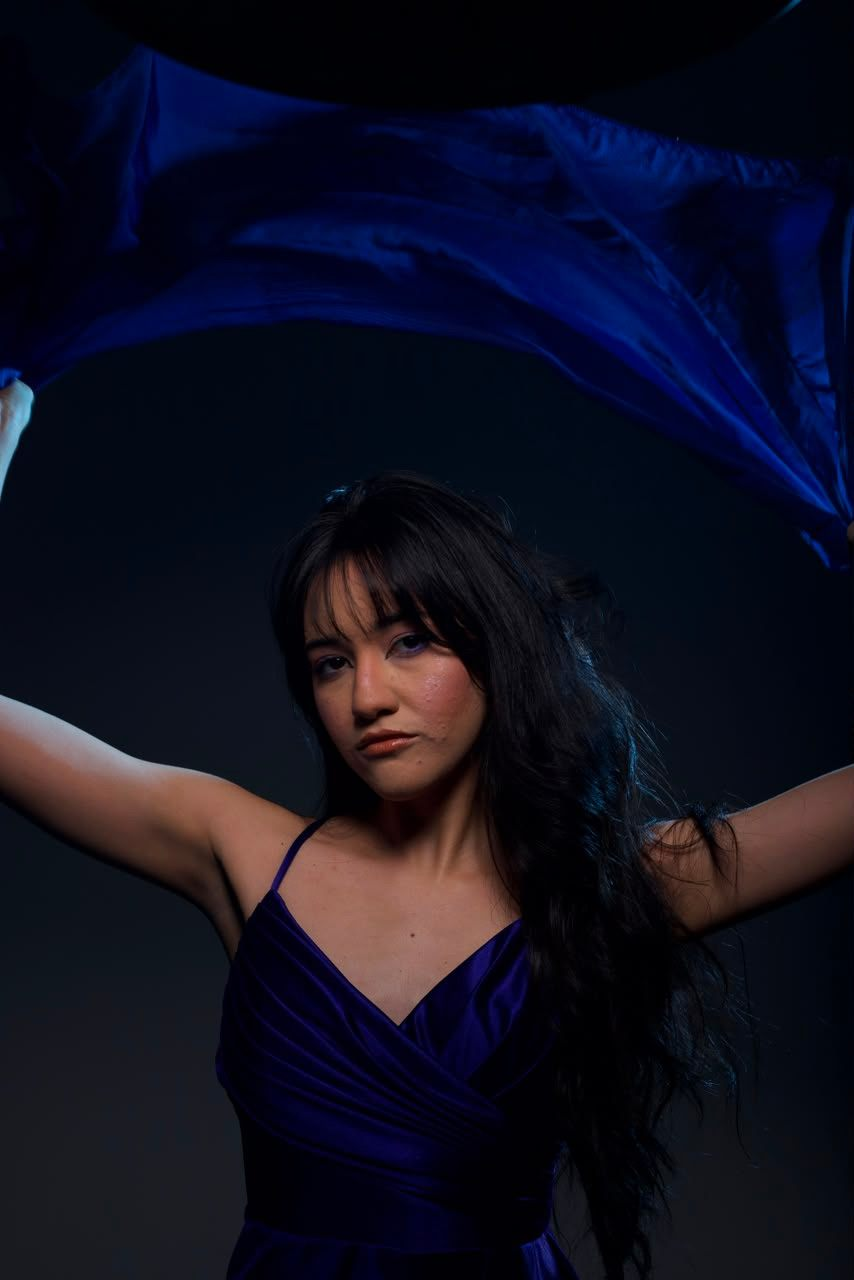
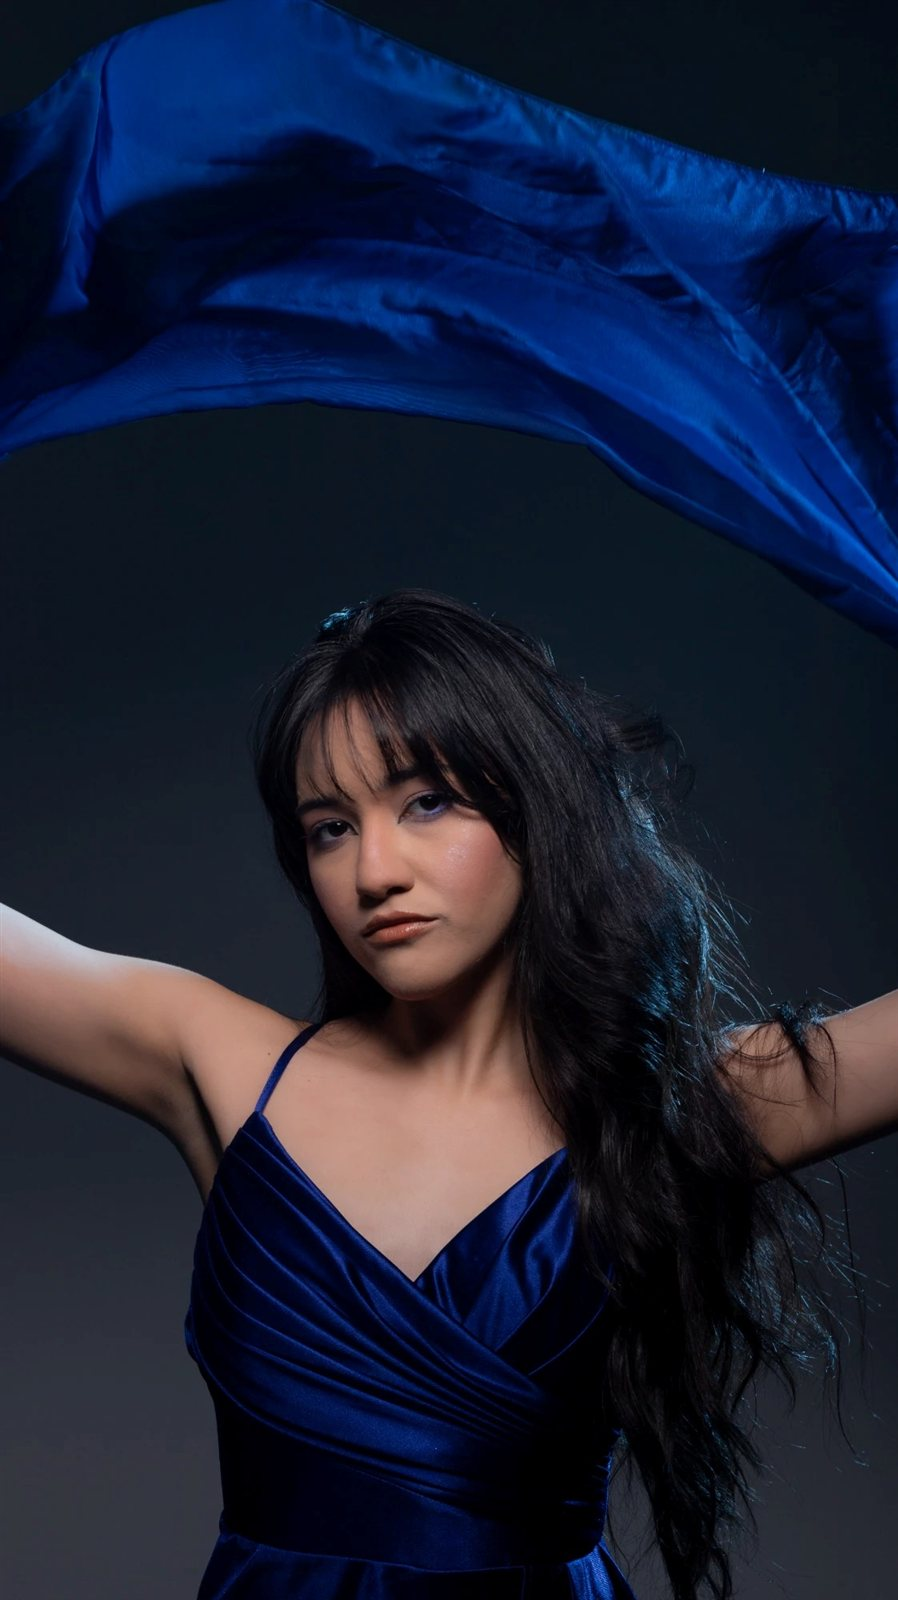
Versão completa com a carta da borboleta e fotos editadas

diff --git a/index.html b/index.html
@@ -4,7 +4,7 @@
 <meta charset="utf-8">
 <meta name="viewport" content="width=device-width, initial-scale=1, viewport-fit=cover">
 <title>Duda Sá</title>
-<meta name="description" content="Duda Sá, cantora e compositora. Novo single Superstar em 30 de novembro de 2026.">
+<meta name="description" content="Duda Sá, cantora e compositora. Novo single Superstar em 20 de novembro de 2026.">
 <link rel="preconnect" href="https://fonts.googleapis.com">
 <link rel="preconnect" href="https://fonts.gstatic.com" crossorigin>
 <link rel="stylesheet" href="https://fonts.googleapis.com/css2?family=Josefin+Sans:wght@200;300;400&family=Jost:ital,wght@0,300;0,400;0,500;1,300&family=Yellowtail&display=swap">
@@ -292,7 +292,7 @@ footer .sig { font-family: var(--body); font-style: normal; font-weight: 300; }
 
 <div class="notice">
   <div class="wrap">
-    <a href="#superstar">Superstar · novo single · 30.11</a>
+    <a href="#superstar">Superstar · novo single · 20.11</a>
     <span aria-hidden="true">✦</span>
     <span>faltam <b id="nb-d">--</b> dias</span>
   </div>
@@ -347,7 +347,7 @@ footer .sig { font-family: var(--body); font-style: normal; font-weight: 300; }
       <div class="single-text">
         <p class="eyebrow">Novo single</p>
         <h2>Superstar</h2>
-        <p class="date">30 de novembro de 2026</p>
+        <p class="date">20 de novembro de 2026</p>
         <div id="countWrap">
           <div class="count" aria-live="off">
             <div><b id="cd-d">--</b><span>dias</span></div>
@@ -614,8 +614,8 @@ footer .sig { font-family: var(--body); font-style: normal; font-weight: 300; }
   };
   if (!still) requestAnimationFrame(drift);
 
-  // Contagem para Superstar (30/11/2026, meia-noite em Brasília).
-  const release = new Date('2026-11-30T00:00:00-03:00').getTime();
+  // Contagem para Superstar (20/11/2026, meia-noite em Brasília).
+  const release = new Date('2026-11-20T00:00:00-03:00').getTime();
   const pad = (n) => String(n).padStart(2, '0');
   const tick = () => {
     const left = release - Date.now();
@@ -694,6 +694,7 @@ footer .sig { font-family: var(--body); font-style: normal; font-weight: 300; }
   const morpho = document.getElementById('morpho');
   const aboutBox = document.querySelector('#sobre .about-text');
   const letterEl = document.querySelector('#sobre .letter');
+  const hasLetter = !!(morpho && letterEl);
   let bx = 0, by = 0, heading = 0, t = 0, near = null, flyOn = false, lastFly = performance.now();
   const orbit = () => {
     const L = letterEl.getBoundingClientRect(), B = aboutBox.getBoundingClientRect();
@@ -703,10 +704,12 @@ footer .sig { font-family: var(--body); font-style: normal; font-weight: 300; }
       y: cy + Math.sin(t * .22) * (L.height / 2 + 14) + Math.cos(t * 1.3) * 8
     };
   };
-  aboutBox.addEventListener('pointermove', (e) => { const B = aboutBox.getBoundingClientRect(); near = { x: e.clientX - B.left, y: e.clientY - B.top }; });
-  aboutBox.addEventListener('pointerleave', () => { near = null; });
-  new IntersectionObserver((en) => { flyOn = en[0].isIntersecting; }, { rootMargin: '100px' }).observe(aboutBox);
-  const start = orbit(); bx = start.x; by = start.y;
+  if (hasLetter) {
+    aboutBox.addEventListener('pointermove', (e) => { const B = aboutBox.getBoundingClientRect(); near = { x: e.clientX - B.left, y: e.clientY - B.top }; });
+    aboutBox.addEventListener('pointerleave', () => { near = null; });
+    new IntersectionObserver((en) => { flyOn = en[0].isIntersecting; }, { rootMargin: '100px' }).observe(aboutBox);
+    const start = orbit(); bx = start.x; by = start.y;
+  }
   const flyFrame = (now) => {
     const dt = Math.min(50, now - lastFly) / 1000; lastFly = now;
     if (flyOn) {
@@ -728,11 +731,13 @@ footer .sig { font-family: var(--body); font-style: normal; font-weight: 300; }
 
   if (still) {
     stars.forEach(s => drawStar(s.x, s.y, s.r, .8));
-    const L = letterEl.getBoundingClientRect(), B = aboutBox.getBoundingClientRect();
-    morpho.style.transform = `translate(${L.right - B.left - 30}px, ${L.top - B.top - 6}px) rotate(.3rad)`;
+    if (hasLetter) {
+      const L = letterEl.getBoundingClientRect(), B = aboutBox.getBoundingClientRect();
+      morpho.style.transform = `translate(${L.right - B.left - 30}px, ${L.top - B.top - 6}px) rotate(.3rad)`;
+    }
   } else {
     requestAnimationFrame(skyFrame);
-    requestAnimationFrame(flyFrame);
+    if (hasLetter) requestAnimationFrame(flyFrame);
   }
 
   // Galeria em tela cheia.
